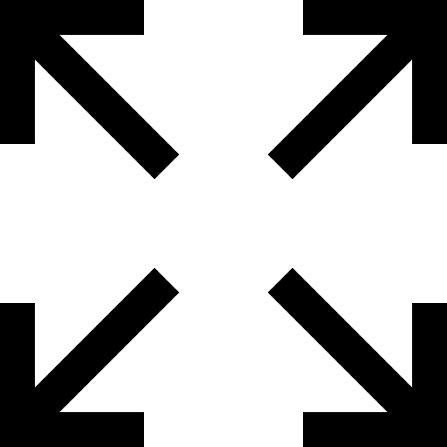
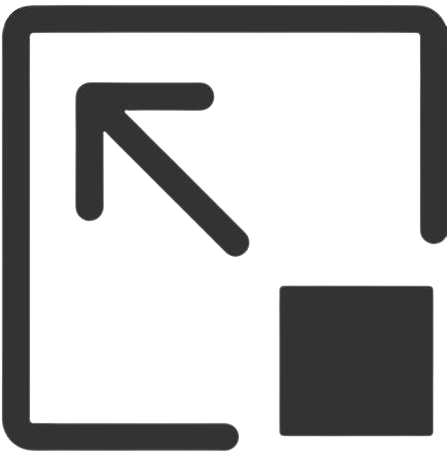
Versão 9

diff --git a/pizzaria/public/javascript/venda.js b/pizzaria/public/javascript/venda.js
@@ -44,6 +44,7 @@ const optionsSelectPagamento = {
 const elementosPagamento = {}
 let pagamentosLancados = []
 let idsDisponiveisPagamentos = []
+let totalCarrinho = 0
 
 navBtns.forEach(nav => {
     nav.addEventListener('click', ()=>{
@@ -126,14 +127,13 @@ function addToCart(){
     carrinho.push(produto)
     selecionarItem()
     renderizarCarrinho()
-    console.log(JSON.stringify(carrinho, null, 2))
 }
 // Cardápio - fim
 
 // Carrinho - início
 function renderizarCarrinho(){
     let html = ''
-    let totalGeral = 0
+    totalCarrinho = 0
     carrinho.forEach((produto,index) =>{
         html += `
         <tr onclick="selecionarItem(${produto.id_item_carrinho},this)">
@@ -148,10 +148,11 @@ function renderizarCarrinho(){
                 formatoMoeda.format(Math.round(produto.valor * 100 * produto.quantidade)/100)
             }</td>
         </tr>`
-        totalGeral += Math.round(produto.valor * 100 * produto.quantidade)/100
+        totalCarrinho += Math.round(produto.valor * 100 * produto.quantidade)/100
     })
     document.getElementById('corpo-navegacao-carrinho').querySelector('tbody').innerHTML = html
-    document.getElementById('carrinho-total-geral').innerText = 'R$ '+formatoMoeda.format(Math.round(totalGeral*100)/100)
+    document.getElementById('carrinho-total-geral').innerText = 'R$ '+formatoMoeda.format(Math.round(totalCarrinho*100)/100)
+    atualizarStatusPagamento()
 }
 function editarCarrinho(){
     if (idItemSelecionado == null) {
@@ -295,7 +296,7 @@ function renderizarPagamentosLancados() {
                 )?.bandeira || 'Não existe') : ''}
             </td>
             <td class="pag-parcelas">${pag.parcelas? pag.parcelas : ''}</td>
-            <td class="pag-excluir">🗑</td>
+            <td class="pag-excluir" onclick="excluirPagamento(${pag.id})">🗑</td>
         </tr>`
     });
     document.getElementById('pagamentos-lancados').querySelector('tbody').innerHTML = html
@@ -320,6 +321,7 @@ function lancarPagamento(){
     pagamentosLancados.push(pagamento)
     renderizarPagamentosLancados()
     limparFormularioPagamento()
+    atualizarStatusPagamento()
 }
 function ehCredito(valor){
     const texto = optionsSelectPagamento.bandeiras.find(b => b.id == valor)?.bandeira || ''
@@ -355,5 +357,49 @@ function limparFormularioPagamento(){
     elementosPagamento.selectBandeira.selectedIndex = 0
     elementosPagamento.selectForma.selectedIndex = 0
 }
+function excluirPagamento(id){
+    const index = pagamentosLancados.findIndex(p => p.id == id)
+    pagamentosLancados.splice(index,1)
+    renderizarPagamentosLancados()
+    atualizarStatusPagamento()
+}
+function atualizarStatusPagamento(){
+    const elementos = {
+        total: document.getElementById('status-total').querySelector('span'),
+        recebido: document.getElementById('status-recebido').querySelector('span'),
+        falta: document.getElementById('status-falta').querySelector('span'),
+        troco: document.getElementById('status-troco').querySelector('span'),
+    }
+    // total
+    
+    elementos.total.innerText = formatoMoeda.format(totalCarrinho)
+    let total = Math.round(totalCarrinho*100)
 
+    // recebido
+    let recebido = 0
+    pagamentosLancados.forEach(p => {
+        recebido += Math.round(p.valor * 100)
+    });
+    elementos.recebido.innerText = formatoMoeda.format(recebido/100)
+
+    // falta
+    let falta = 0
+    if (total > recebido){
+        falta = total - recebido
+    }
+    elementos.falta.innerText = formatoMoeda.format(falta/100)
+
+    // troco
+    let troco = 0
+    if (recebido > total){
+        troco = recebido - total
+    }
+    elementos.troco.innerText = formatoMoeda.format(troco/100)
+}
 // Forma de pagamento - fim
+
+// campo observações - inicio
+function ampliarObservacoes() {
+    // document.getElementById('modal-observacoes').open
+}
+// campo observações - fim

diff --git a/pizzaria/public/css/venda.css b/pizzaria/public/css/venda.css
@@ -42,11 +42,22 @@ body {
         }
     }
     .container-obs {
+        position: relative;
+        display: inline-block;
+        img {
+            position: absolute;
+            bottom: 0;
+            right: 0;
+            width: 20px;
+            cursor: pointer;
+            z-index: 10;
+        }
         textarea {
             height: 100%;
             width: 400px;
             padding: 3px;
             resize: none;
+            box-sizing: border-box;
         }
     }
     .botoes, .container-obs {
@@ -56,6 +67,7 @@ body {
 
 .corpo {
     .barra-navegacao {
+        user-select: none;
         display: flex;
         justify-content: center;
         margin-top: 50px;
